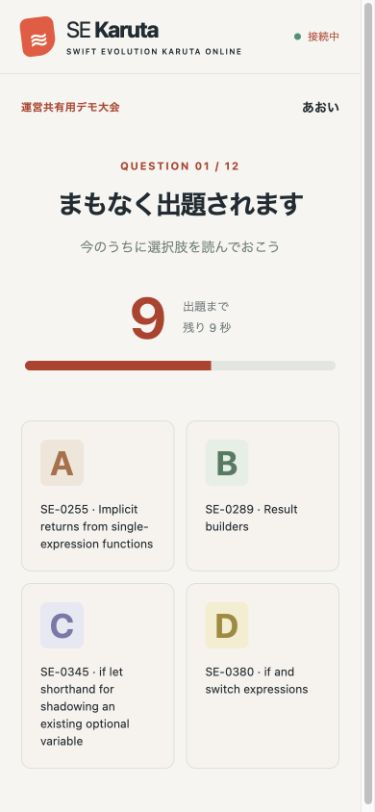
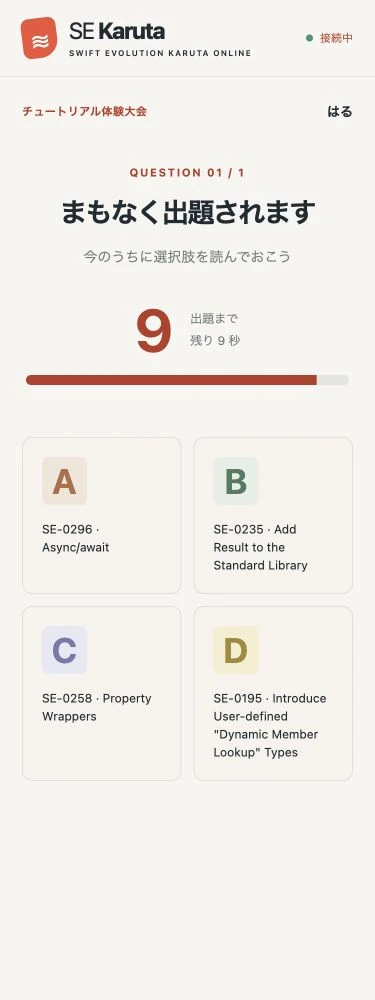
提案資料の画面を公開チュートリアル問題に差し替え

diff --git a/README.md b/README.md
@@ -75,6 +75,7 @@ npx wrangler deploy --config dist/se_karuta_online/wrangler.json
 - 通常表示は左にスライド、右に説明文を配置し、長い説明文だけペイン内でスクロールできます。スマートフォンの縦画面では上下に配置します。
 - 左右キー、Page Up / Page Down、画面上のボタンで移動できます。`/proposal/#3` のように各スライドへ直接リンクできます。
 - スクリーンショットを押すと拡大します。画面と成績はローカルのデモデータです。
+- 問題が写る画面は、公開用の [`data/questions/tutorial.json`](data/questions/tutorial.json) の1問だけで撮影しています。画像を更新するときもこの問題を使い、本番用の問題・選択肢・正解が資料に出ないようにします。
 
 実体は [`public/proposal/`](public/proposal/) の静的なHTML / CSS / JavaScriptです。Viteがそのままビルド出力へコピーし、本体と同じWorkersのStatic Assetsで配信します。Reactのルートには組み込まず、通常のリンクで移動します。GitHub Pages用の公開ワークフローはありません。
 
